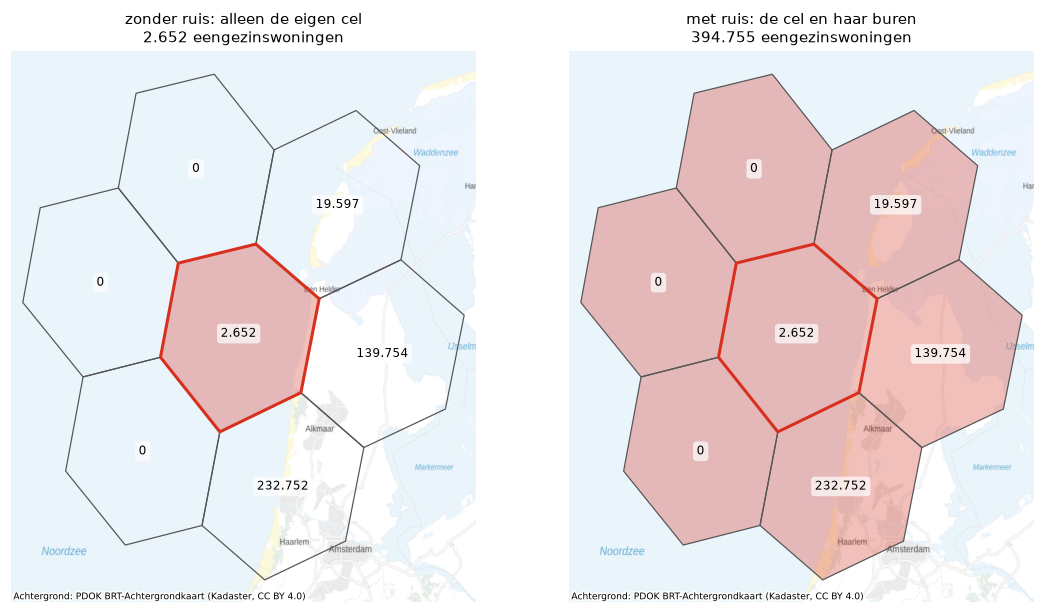
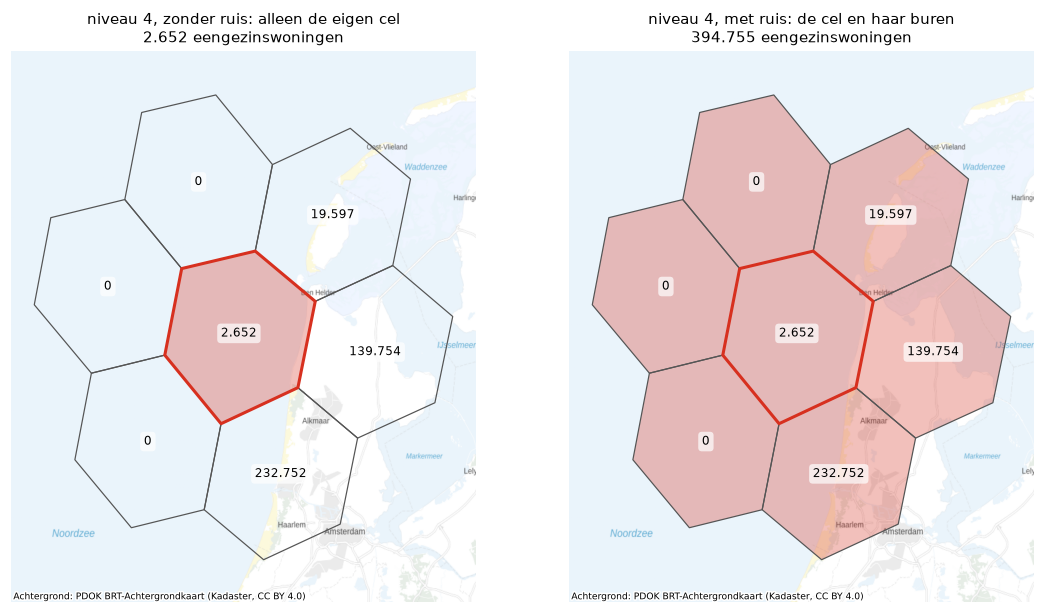
Kaart: dezelfde kuststrook op H3-niveau 5, zonder en met ruis
Cel 85196807fffffff, een deelcel van de risicocel van niveau 4: 656 -> 80.528
eengezinswoningen met de buren erbij (123x). maak_kaarten.py tekent beide niveaus met dezelfde
functie.

Claude-Session: https://claude.ai/code/session_01QRUPtADgdbmmHDF2NFWH3P

diff --git a/docs/kaarten/maak_kaarten.py b/docs/kaarten/maak_kaarten.py
@@ -44,6 +44,7 @@ PDOK = "https://service.pdok.nl/brt/achtergrondkaart/wmts/v2_0/grijs/EPSG:3857/{
 BRON = "Achtergrond: PDOK BRT-Achtergrondkaart (Kadaster, CC BY 4.0)"
 CEL = "8419681ffffffff"          # de weerzone in Noord-Holland met de grootste groei door ruis
 NL = (3.2, 50.7, 7.3, 53.6)      # lon/lat
+CEL5 = "85196807fffffff"         # een deelcel van niveau 5 in dezelfde risicocel
 KLEUR = "#d7301f"
 
 naar_merc = Transformer.from_crs(4326, 3857, always_xy=True).transform
@@ -73,6 +74,55 @@ def geojson(pad: Path, vlakken: list[tuple[Polygon, dict]]) -> None:
     feats = [{"type": "Feature", "geometry": mapping(p), "properties": props}
              for p, props in vlakken]
     pad.write_text(json.dumps({"type": "FeatureCollection", "features": feats}), "utf-8")
+
+
+def ruisfiguur(con, pop: str, eg: str, cel: str, niveau: int, naam: str,
+               omlijn: Polygon | None = None):
+    """Een cel zonder en met ruis (de cel en haar zes buren), met aantallen per cel."""
+    ring = list(h3.grid_disk(cel, 1))
+    tel = con.execute(f"""SELECT h3_r{niveau} AS c, count(*) n, sum(({eg})::int) eg
+        FROM read_parquet('{pop}') WHERE list_contains(?, h3_r{niveau}) GROUP BY 1""",
+                      [ring]).df().set_index("c").reindex(ring).fillna(0)
+    vlakken = [(hexagon(c), {"cel": c, "rol": "eigen cel" if c == cel else "buurcel",
+                             "woningen": int(tel.loc[c, "n"]),
+                             "eengezinswoningen 50-250 m²": int(tel.loc[c, "eg"])})
+               for c in ring]
+    geojson(HIER / f"{naam}.geojson", vlakken)
+    eigen, alle = int(tel.loc[cel, "eg"]), int(tel["eg"].sum())
+    print(f"ruis niveau {niveau}: {eigen} -> {alle} eengezinswoningen 50-250 m² "
+          f"({alle / max(eigen, 1):.0f}x); alle woningen {int(tel.loc[cel, 'n'])} -> "
+          f"{int(tel['n'].sum())}")
+    punten = [pt for p, _ in vlakken for pt in p.exterior.coords]
+    if omlijn is not None:
+        punten += list(omlijn.exterior.coords)
+    omlijst = MultiPoint(punten).bounds
+    marge = 0.02 * (7 - niveau) ** 1.5
+    bbox = (omlijst[0] - marge, omlijst[1] - marge, omlijst[2] + marge, omlijst[3] + marge)
+    fig, axs = plt.subplots(1, 2, figsize=(12, 6.5))
+    for ax, met_ruis in zip(axs, (False, True)):
+        doel = vlakken if met_ruis else [v for v in vlakken if v[1]["cel"] == cel]
+        ax.add_collection(PolyCollection([merc(p) for p, _ in doel], facecolors=KLEUR,
+                                         edgecolors="none", alpha=0.3))
+        ax.add_collection(PolyCollection([merc(p) for p, _ in vlakken], facecolors="none",
+                                         edgecolors="#555555", linewidths=0.8))
+        ax.add_collection(PolyCollection([merc(hexagon(cel))], facecolors="none",
+                                         edgecolors=KLEUR, linewidths=2))
+        if omlijn is not None:
+            ax.add_collection(PolyCollection([merc(omlijn)], facecolors="none",
+                                             edgecolors="#08519c", linewidths=1.2,
+                                             linestyles="--"))
+        for p, props in vlakken:
+            cx_, cy_ = naar_merc(*np.asarray(p.centroid.coords)[0])
+            ax.text(cx_, cy_, f"{props['eengezinswoningen 50-250 m²']:,}".replace(",", "."),
+                    ha="center", va="center", fontsize=8,
+                    bbox={"boxstyle": "round", "fc": "white", "alpha": 0.7, "lw": 0})
+        n = alle if met_ruis else eigen
+        kaart(ax, bbox, f"niveau {niveau}, " + ("met ruis: de cel en haar buren" if met_ruis
+                                                 else "zonder ruis: alleen de eigen cel")
+              + f"\n{n:,} eengezinswoningen".replace(",", "."))
+    fig.savefig(HIER / f"{naam}.png", dpi=110, bbox_inches="tight")
+    plt.close(fig)
+    return vlakken, bbox
 
 
 def main() -> None:
@@ -128,41 +178,12 @@ def main() -> None:
     fig.savefig(HIER / "h3_niveau4.png", dpi=110, bbox_inches="tight")
     plt.close(fig)
 
-    # --- 3. ruis: de cel en haar buren ----------------------------------------------------------
-    ring = list(h3.grid_disk(CEL, 1))
-    tel = per_cel.set_index("h3_r4").reindex(ring).fillna(0)
-    vlakken = [(hexagon(c), {"cel": c, "rol": "eigen cel" if c == CEL else "buurcel",
-                             "woningen": int(tel.loc[c, "n"]),
-                             "eengezinswoningen 50-250 m²": int(tel.loc[c, "eg"])})
-               for c in ring]
-    geojson(HIER / "h3_ruis.geojson", vlakken)
-    eigen, alle = int(tel.loc[CEL, "eg"]), int(tel["eg"].sum())
-    print(f"ruis: {eigen} -> {alle} eengezinswoningen 50-250 m² ({alle / eigen:.0f}x); "
-          f"alle woningen {int(tel.loc[CEL, 'n'])} -> {int(tel['n'].sum())}")
-    omlijst = MultiPoint([pt for p, _ in vlakken for pt in p.exterior.coords]).bounds
-    marge = 0.05
-    bbox = (omlijst[0] - marge, omlijst[1] - marge, omlijst[2] + marge, omlijst[3] + marge)
-    fig, axs = plt.subplots(1, 2, figsize=(12, 6.5))
-    for ax, met_ruis in zip(axs, (False, True)):
-        doel = vlakken if met_ruis else [v for v in vlakken if v[1]["cel"] == CEL]
-        ax.add_collection(PolyCollection([merc(p) for p, _ in doel], facecolors=KLEUR,
-                                         edgecolors="none", alpha=0.3))
-        ax.add_collection(PolyCollection([merc(p) for p, _ in vlakken], facecolors="none",
-                                         edgecolors="#555555", linewidths=0.8))
-        ax.add_collection(PolyCollection([merc(hexagon(CEL))], facecolors="none",
-                                         edgecolors=KLEUR, linewidths=2))
-        for p, props in vlakken:
-            cx_, cy_ = naar_merc(*np.asarray(p.centroid.coords)[0])
-            ax.text(cx_, cy_, f"{props['eengezinswoningen 50-250 m²']:,}".replace(",", "."),
-                    ha="center", va="center", fontsize=8,
-                    bbox={"boxstyle": "round", "fc": "white", "alpha": 0.7, "lw": 0})
-        n = alle if met_ruis else eigen
-        kaart(ax, bbox, ("met ruis: de cel en haar buren" if met_ruis else "zonder ruis: "
-                         "alleen de eigen cel") + f"\n{n:,} eengezinswoningen".replace(",", "."))
-    fig.savefig(HIER / "h3_ruis.png", dpi=110, bbox_inches="tight")
-    plt.close(fig)
+    # --- 3. ruis: de cel en haar buren, op niveau 4 en 5 ----------------------------------------
+    vlakken, bbox = ruisfiguur(con, pop, eg, CEL, 4, "h3_ruis")
+    ruisfiguur(con, pop, eg, CEL5, 5, "h3_ruis_niveau5", omlijn=hexagon(CEL))
 
     # --- 4. hitte-eiland in hetzelfde gebied, fijn en grof afgerond -----------------------------
+    ring = list(h3.grid_disk(CEL, 1))
     w = con.execute(f"""SELECT w.lat, w.lon, u.uhi__degC AS uhi FROM read_parquet('{pop}') w
         JOIN read_parquet('{args.uhi.as_posix()}') u ON u.pc6 = w.postcode6
         WHERE list_contains(?, w.h3_r4) AND w.lat IS NOT NULL""", [ring]).df()

diff --git a/docs/herleidbaarheid-uitleg.md b/docs/herleidbaarheid-uitleg.md
@@ -148,6 +148,16 @@ weerzone, type, label en een afgeronde signatuur valt landelijk 10% van de eenge
 te kleine groep, tegen 3% op niveau 4. Met ruis is dat verschil grotendeels weg, en ligt het
 weerpunt dichter bij de woning dan nu.
 
+![Een cel van niveau 5 in dezelfde kuststrook, zonder en met ruis](kaarten/h3_ruis_niveau5.png)
+
+*Dezelfde kuststrook op niveau 5 (H3 `85196807fffffff`, rood omlijnd; blauw gestreept de cel van
+niveau 4 van hierboven). Zonder ruis wijst de cel 656 eengezinswoningen aan, een kwart van de
+cel van niveau 4: kleinere cellen zijn preciezer voor het weer, en daarmee ook voor de aanvaller.
+Met ruis zoekt de aanvaller weer in zeven cellen: 80.528 woningen, 123 keer zoveel. Interactief:
+[de cel en haar buren](kaarten/h3_ruis_niveau5.geojson). Achtergrond:
+[PDOK BRT-Achtergrondkaart](https://service.pdok.nl/brt/achtergrondkaart/wmts/v2_0?request=GetCapabilities&service=WMTS)
+(Kadaster, CC BY 4.0); gemaakt met [`kaarten/maak_kaarten.py`](kaarten/maak_kaarten.py).*
+
 **Het stedelijk hitte-eiland: in de berekening wel, als kolom niet.** In de stad is het warmer
 dan op het weerstation (volgens de RIVM-kaart per postcode 0,8 °C in de mediaan, bij 10% van de eengezinswoningen meer dan 1,5 °C). Een model dat de
 warmteprestatie leert met stationsweer, ziet in de stad een kleiner temperatuurverschil dan er
